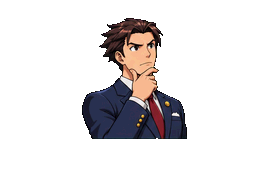
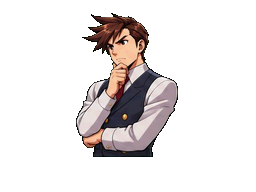
Justo con chaleco (hoja nueva), siempre mirando a la derecha
Claude-Session: https://claude.ai/code/session_01Xb94a44mJyTYV8GKKMfxw2

Changed region(s): [[0.2812, 0.0625, 0.75, 0.8438]]

diff --git a/js/assets.js b/js/assets.js
@@ -1,5 +1,5 @@
 /* Rutas de las imágenes del juego. Para cambiar un sprite, reemplaza el PNG. */
-const ART={ines:{base:"assets/personajes/ines/base.png",talk:"assets/personajes/ines/talk.png",smug:"assets/personajes/ines/smug.png",smugTalk:"assets/personajes/ines/smugTalk.png",sweat:"assets/personajes/ines/sweat.png",sweatTalk:"assets/personajes/ines/sweatTalk.png",shock:"assets/personajes/ines/shock.png",shockTalk:"assets/personajes/ines/shockTalk.png",think:"assets/personajes/ines/think.png",thinkTalk:"assets/personajes/ines/thinkTalk.png",angry:"assets/personajes/ines/angry.png",angryTalk:"assets/personajes/ines/angryTalk.png",point:"assets/personajes/ines/point.png",pointTalk:"assets/personajes/ines/pointTalk.png",down:"assets/personajes/ines/down.png",downTalk:"assets/personajes/ines/downTalk.png",face:"assets/personajes/ines/face.png"},
+const ART={ines:{angry:"assets/personajes/ines/angry.png",angryTalk:"assets/personajes/ines/angryTalk.png",base:"assets/personajes/ines/base.png",face:"assets/personajes/ines/face.png",point:"assets/personajes/ines/point.png",pointTalk:"assets/personajes/ines/pointTalk.png",shock:"assets/personajes/ines/shock.png",shockTalk:"assets/personajes/ines/shockTalk.png",smug:"assets/personajes/ines/smug.png",smugTalk:"assets/personajes/ines/smugTalk.png",sweat:"assets/personajes/ines/sweat.png",sweatTalk:"assets/personajes/ines/sweatTalk.png",talk:"assets/personajes/ines/talk.png",think:"assets/personajes/ines/think.png",thinkTalk:"assets/personajes/ines/thinkTalk.png"},
 
 fiscal:{base:"assets/personajes/fiscal/base.png",talk:"assets/personajes/fiscal/talk.png",smug:"assets/personajes/fiscal/smug.png",smugTalk:"assets/personajes/fiscal/smugTalk.png",cafe:"assets/personajes/fiscal/cafe.png",cafeTalk:"assets/personajes/fiscal/cafeTalk.png",shock:"assets/personajes/fiscal/shock.png",shockTalk:"assets/personajes/fiscal/shockTalk.png",sweat:"assets/personajes/fiscal/sweat.png",sweatTalk:"assets/personajes/fiscal/sweatTalk.png",angry:"assets/personajes/fiscal/angry.png",angryTalk:"assets/personajes/fiscal/angryTalk.png",point:"assets/personajes/fiscal/point.png",pointTalk:"assets/personajes/fiscal/pointTalk.png",cross:"assets/personajes/fiscal/cross.png",crossTalk:"assets/personajes/fiscal/crossTalk.png",face:"assets/personajes/fiscal/face.png",frente_base:"assets/personajes/fiscal/frente_base.png",frente_talk:"assets/personajes/fiscal/frente_talk.png",frente_smug:"assets/personajes/fiscal/frente_smug.png",frente_smugTalk:"assets/personajes/fiscal/frente_smugTalk.png",frente_cafe:"assets/personajes/fiscal/frente_cafe.png",frente_cafeTalk:"assets/personajes/fiscal/frente_cafeTalk.png",frente_shock:"assets/personajes/fiscal/frente_shock.png",frente_shockTalk:"assets/personajes/fiscal/frente_shockTalk.png",frente_sweat:"assets/personajes/fiscal/frente_sweat.png",frente_sweatTalk:"assets/personajes/fiscal/frente_sweatTalk.png",frente_angry:"assets/personajes/fiscal/frente_angry.png",frente_angryTalk:"assets/personajes/fiscal/frente_angryTalk.png",frente_point:"assets/personajes/fiscal/frente_point.png",frente_pointTalk:"assets/personajes/fiscal/frente_pointTalk.png",frente_cross:"assets/personajes/fiscal/frente_cross.png",frente_crossTalk:"assets/personajes/fiscal/frente_crossTalk.png"},
 

diff --git a/js/engine.js b/js/engine.js
@@ -573,7 +573,7 @@ function drawBG(pos){
 
 /* Qué celda de la hoja usa cada emoción: [callado, hablando, parpadeo] */
 const AMAP={
-  ines:{normal:["base","talk"],serious:["base","talk"],smug:["smug","smugTalk"],smile:["smug","smugTalk"],sweat:["sweat","sweatTalk"],shock:["shock","shockTalk"],think:["think","thinkTalk"],angry:["angry","angryTalk"],down:["down","downTalk"],"pose:point":["point","pointTalk"]},
+  ines:{normal:["base","talk"],serious:["base","talk"],smug:["smug","smugTalk"],smile:["smug","smugTalk"],sweat:["sweat","sweatTalk"],shock:["shock","shockTalk"],think:["think","thinkTalk"],angry:["angry","angryTalk"],down:["sweat","sweatTalk"],"pose:point":["point","pointTalk"]},   // down: provisorio hasta tener la pose cabizbaja mirando a la derecha
   fiscal:{normal:["base","talk"],serious:["base","talk"],smug:["smug","smugTalk"],smile:["smug","smugTalk"],shock:["shock","shockTalk"],sweat:["sweat","sweatTalk"],angry:["angry","angryTalk"],disdain:["cross","crossTalk"],"pose:point":["point","pointTalk"],"pose:cafe":["cafe","cafeTalk"]},
   testigo:{normal:["base","talk"],smile:["proud","proudTalk"],smug:["smug","smugTalk"],sweat:["sweat","sweatTalk"],shock:["shock","shockTalk"],angry:["angry","angryTalk"],break:["break","breakTalk"],cry:["cry","cryTalk"]},
   jueza:{normal:["base","talk"],serious:["serious","seriousTalk"],shock:["shock","shockTalk"],think:["think","thinkTalk"],smile:["smile","smileTalk"],confused:["confused","confusedTalk"],disappoint:["disappoint","disappointTalk"],gavel:["gavel","gavelTalk"]},

diff --git a/prueba-final.html b/prueba-final.html
@@ -5,7 +5,7 @@
 <meta name="viewport" content="width=device-width, initial-scale=1">
 <title>ACTA CERO — Prueba del final</title>
 <link href="https://fonts.googleapis.com/css2?family=Bebas+Neue&family=Pixelify+Sans:wght@400;700&display=swap" rel="stylesheet">
-<link rel="stylesheet" href="css/style.css?v=40">
+<link rel="stylesheet" href="css/style.css?v=41">
 </head>
 <body>
 <div id="ds">
@@ -49,15 +49,15 @@
     <div class="hint">Activa el sonido · toca la pantalla de abajo para avanzar</div>
   </div>
 </div>
-<script src="js/casos.js?v=40"></script>
-<script src="casos/caso1.js?v=40"></script>
-<script src="casos/caso2.js?v=40"></script>
-<script src="js/audio.js?v=40"></script>
-<script src="js/sprites.js?v=40"></script>
-<script src="js/assets.js?v=40"></script>
-<script src="js/engine.js?v=40"></script>
-<script src="js/investigacion.js?v=40"></script>
-<script src="js/musica.js?v=40"></script>
+<script src="js/casos.js?v=41"></script>
+<script src="casos/caso1.js?v=41"></script>
+<script src="casos/caso2.js?v=41"></script>
+<script src="js/audio.js?v=41"></script>
+<script src="js/sprites.js?v=41"></script>
+<script src="js/assets.js?v=41"></script>
+<script src="js/engine.js?v=41"></script>
+<script src="js/investigacion.js?v=41"></script>
+<script src="js/musica.js?v=41"></script>
 <script>
 /* Versión de prueba: salta directo al veredicto y la escena final del Caso 1. No toca la partida guardada. */
 saveGame=function(){ return true; }; clearSave=function(){};

diff --git a/index.html b/index.html
@@ -5,7 +5,7 @@
 <meta name="viewport" content="width=device-width, initial-scale=1">
 <title>ACTA CERO</title>
 <link href="https://fonts.googleapis.com/css2?family=Bebas+Neue&family=Pixelify+Sans:wght@400;700&display=swap" rel="stylesheet">
-<link rel="stylesheet" href="css/style.css?v=40">
+<link rel="stylesheet" href="css/style.css?v=41">
 </head>
 <body>
 <div id="ds">
@@ -48,14 +48,14 @@
     <div class="hint">Activa el sonido · toca la pantalla de abajo para avanzar</div>
   </div>
 </div>
-<script src="js/casos.js?v=40"></script>
-<script src="casos/caso1.js?v=40"></script>
-<script src="casos/caso2.js?v=40"></script>
-<script src="js/audio.js?v=40"></script>
-<script src="js/sprites.js?v=40"></script>
-<script src="js/assets.js?v=40"></script>
-<script src="js/engine.js?v=40"></script>
-<script src="js/investigacion.js?v=40"></script>
-<script src="js/musica.js?v=40"></script>
+<script src="js/casos.js?v=41"></script>
+<script src="casos/caso1.js?v=41"></script>
+<script src="casos/caso2.js?v=41"></script>
+<script src="js/audio.js?v=41"></script>
+<script src="js/sprites.js?v=41"></script>
+<script src="js/assets.js?v=41"></script>
+<script src="js/engine.js?v=41"></script>
+<script src="js/investigacion.js?v=41"></script>
+<script src="js/musica.js?v=41"></script>
 </body>
 </html>

diff --git a/CLAUDE.md b/CLAUDE.md
@@ -84,6 +84,8 @@ Proceso (scripts en `herramientas/`, escritos para un entorno puntual: adaptar r
 1. Quitar el croma. 2. Cuadro «hablando» = cuadro de boca cerrada + solo la boca del otro (así el cuerpo no tiembla).
 3. Igualar el tamaño y la posición de la cabeza entre emociones. 4. Reducir a 256×192 con color de 15 bits.
 Los PNG de `assets/` ya están procesados: se dibujan tal cual.
+Justo usa la hoja con chaleco (`arte-original/justo-chaleco.png`); **siempre mira a la derecha**. Su pose `down` (cabizbajo) venía de frente y se
+descartó: hoy `down` usa `sweat` hasta tener esa pose mirando a la derecha.
 Versión de frente: si existe `frente_<cuadro>` en `ART[personaje]`, se usa en vez del cuadro normal. Hoy: Penna
 (la hoja de perfil sigue en `assets/personajes/fiscal/` como respaldo).
 
